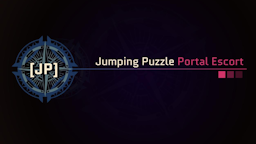
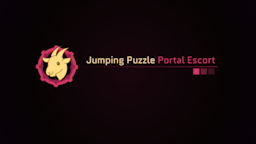
Update JPPE thumbnail and invite link on SAF page

Changed region(s): [[0.0312, 0.25, 0.9688, 0.7222]]

diff --git a/apps/web/app/[language]/festival/super-adventure/(index)/page.tsx b/apps/web/app/[language]/festival/super-adventure/(index)/page.tsx
@@ -78,7 +78,7 @@ export default async function SuperAdventureFestivalPage() {
           Super Adventure Festival
         </FestivalResource>
 
-        <FestivalResource href="https://discord.gg/JwdJM52F" imgSrc={thumbnailJppe.src} type="Discord">
+        <FestivalResource href="https://discord.gg/73CJcth73H" imgSrc={thumbnailJppe.src} type="Discord">
           Jumping Puzzle Portal Escort - Community and Resources around SAB
         </FestivalResource>
       </FestivalResourceGrid>
